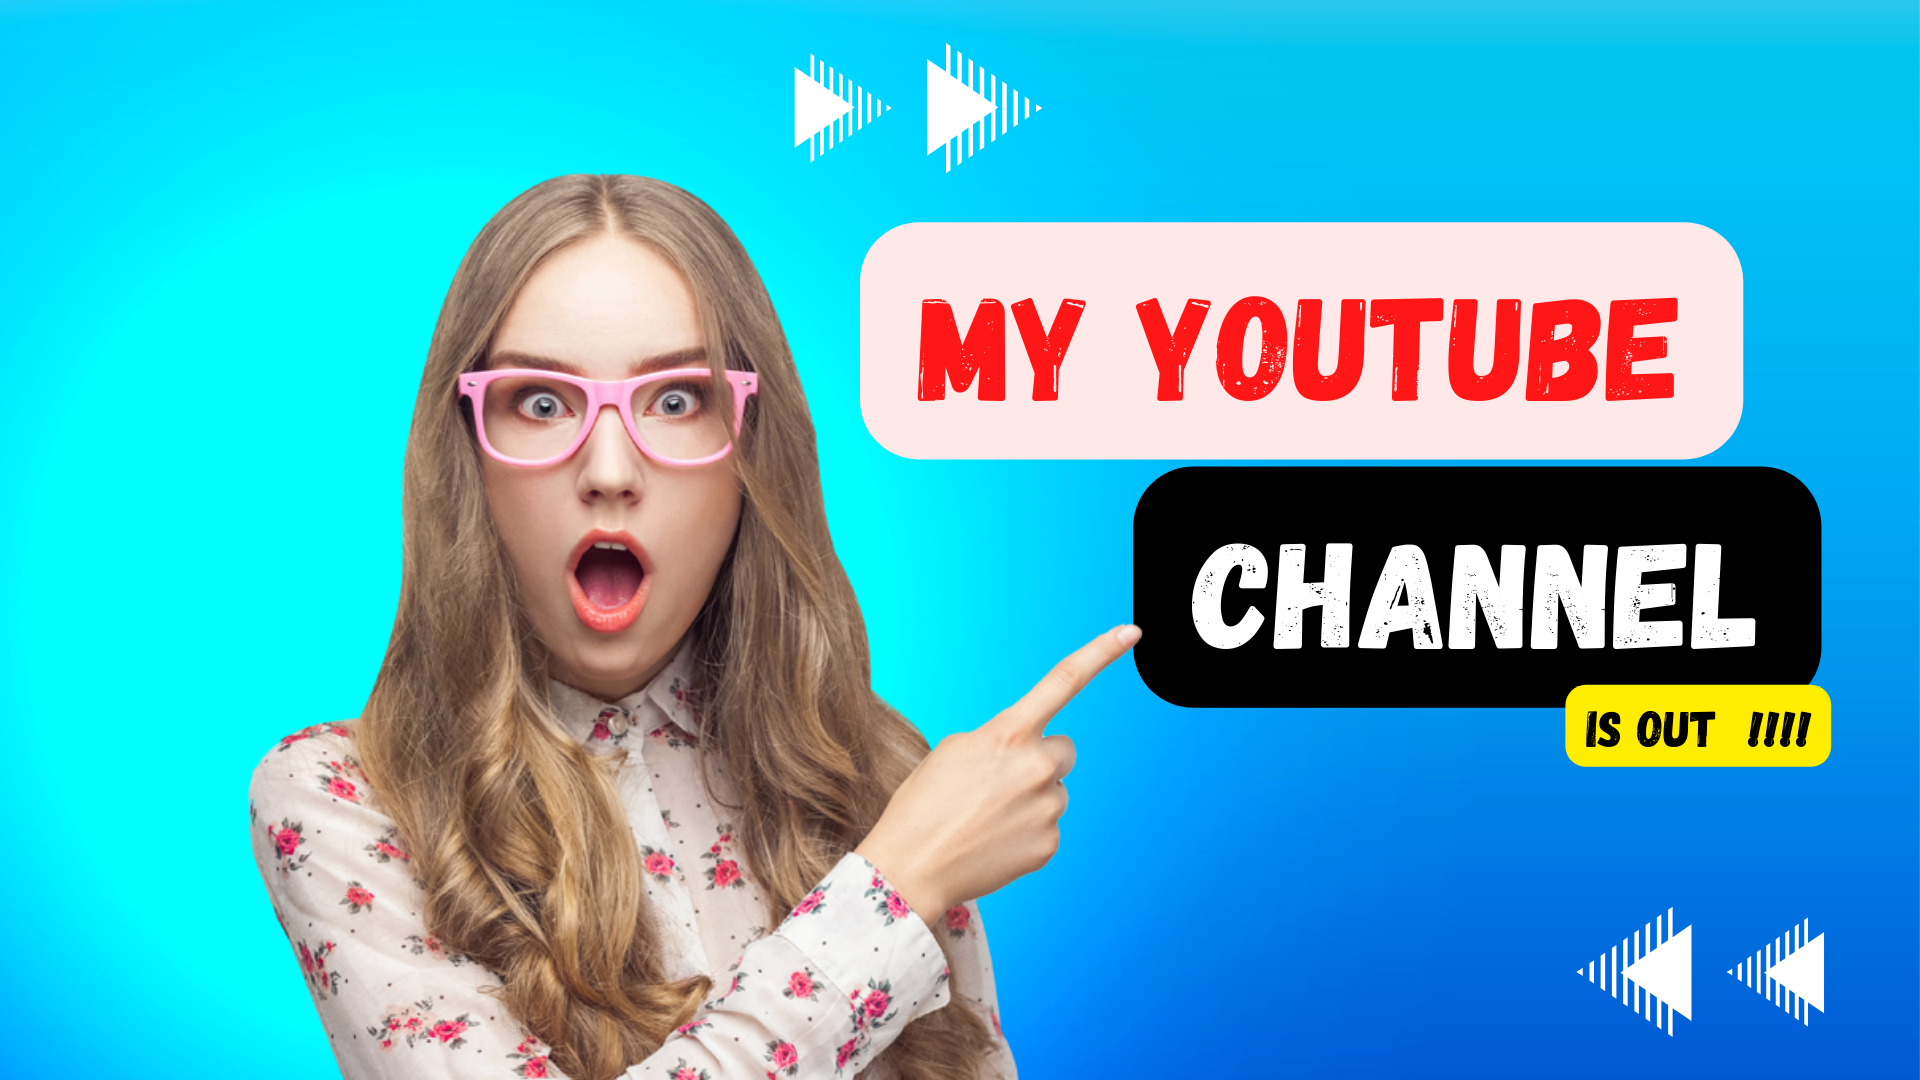
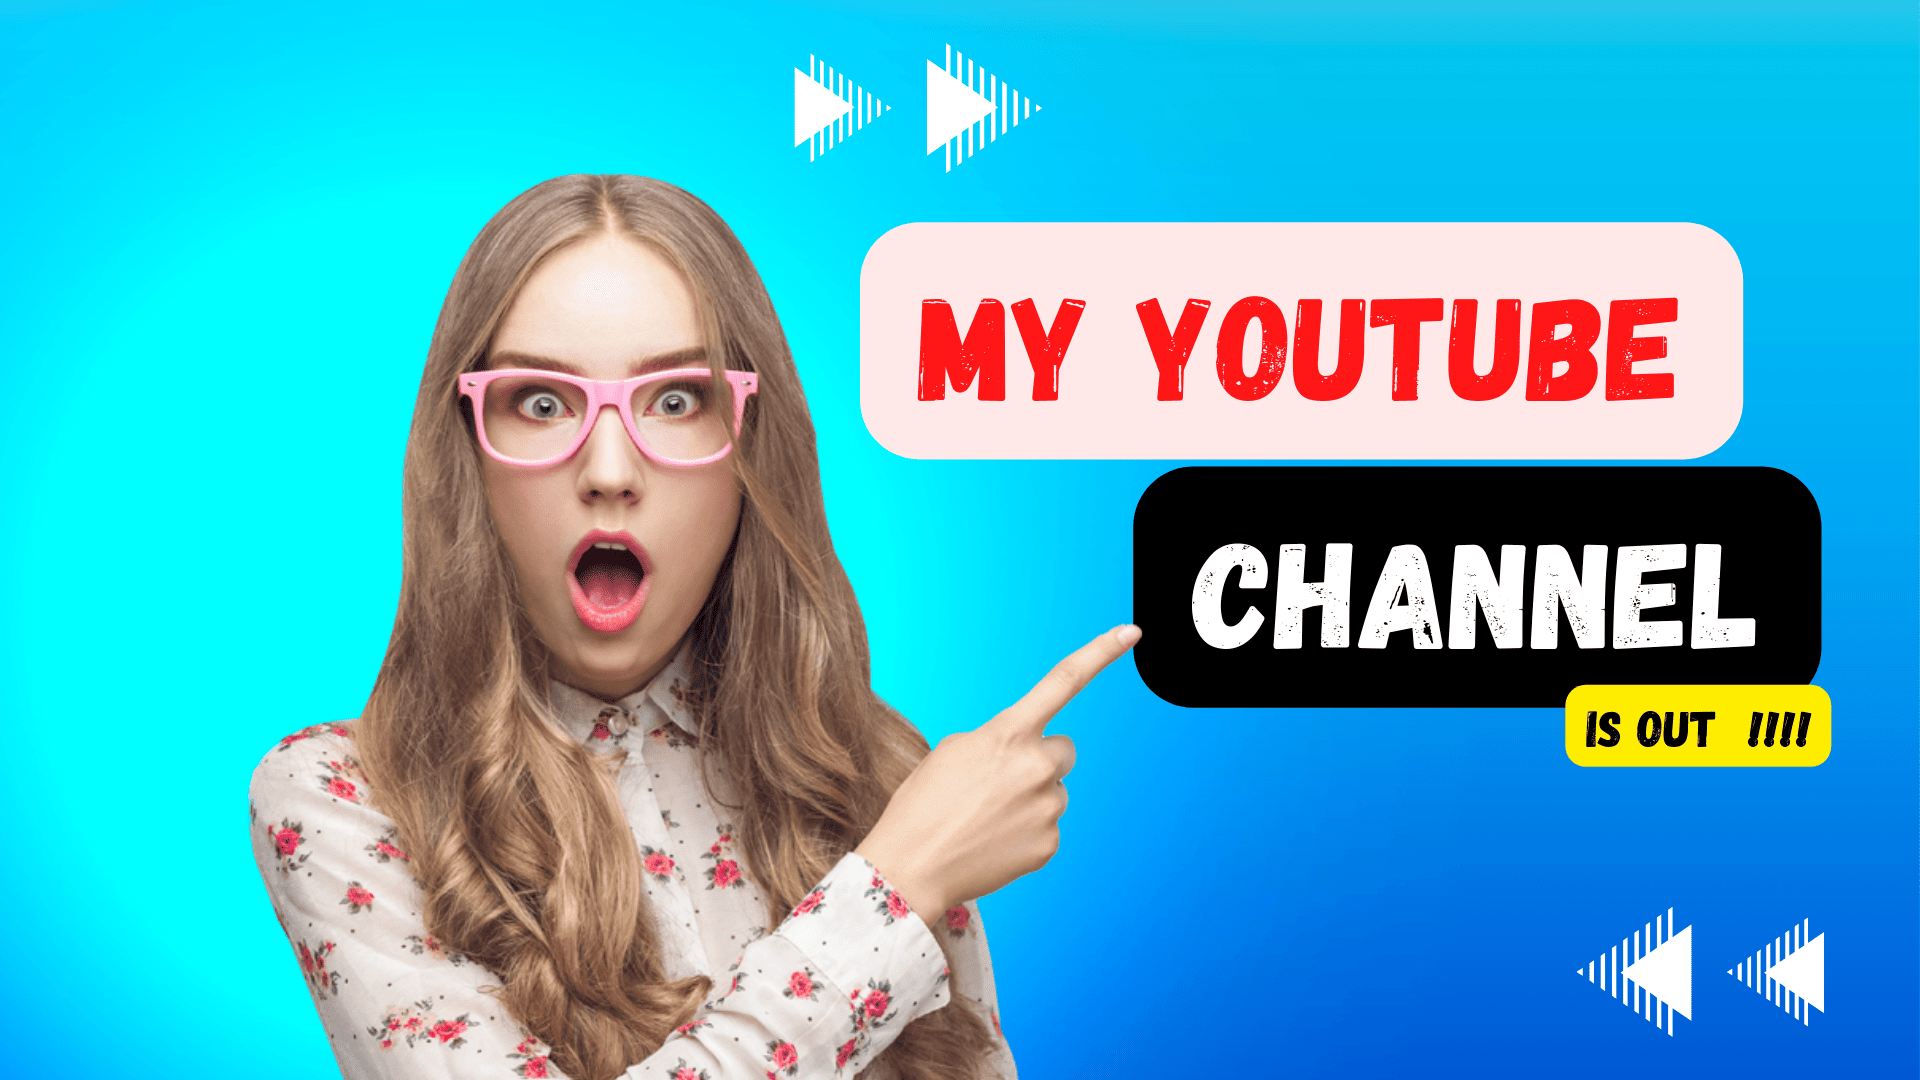
feat: compress large images

Changed region(s): [[0.4375, 0.9167, 0.4688, 0.9472], [0.3125, 0.5194, 0.3438, 0.55]]

diff --git a/content/posts/004-simple-bank-api-in-go/index.md b/content/posts/004-simple-bank-api-in-go/index.md
@@ -64,11 +64,11 @@ So in short the gin server was handling the following request
 ### Endpoints
 
 ```golang
- router := gin.Default()
+router := gin.Default()
 
- authGroup := router.Group("/").Use(authMiddleware(server.tokenMaker))
+authGroup := router.Group("/").Use(authMiddleware(server.tokenMaker))
 
- {
+{
   // Account Routes
   authGroup.POST("/api/accounts", server.createAccount)
   authGroup.GET("/api/accounts/:id", server.getAccount)
@@ -81,14 +81,14 @@ So in short the gin server was handling the following request
   // User Routes
   authGroup.GET("api/users/:username", server.getUser)
   authGroup.PATCH("api/users", server.updateUser)
- }
+}
 
- // Unauthenticated Routes
- router.POST("api/users", server.createUser)
- router.POST("api/users/login", server.loginUser)
- router.POST("api/users/renew", server.renewAccessToken)
+// Unauthenticated Routes
+router.POST("api/users", server.createUser)
+router.POST("api/users/login", server.loginUser)
+router.POST("api/users/renew", server.renewAccessToken)
 
- server.router = router
+server.router = router
 ```
 
 As you can see some requests require authentication, for token creating and verifying I used [paseto](https://paseto.io/),
@@ -104,21 +104,21 @@ It was the first time I was working with `grpc` and `protobuf` and I have to say
 
 In the grpc server I didn't implement all the endpoints, that was implemented in the gin server, but I did implement the following
 
-```golang
-  // Auth gRPC calls
-  rpc Login(LoginRequest) returns (LoginResponse) {}
+```proto
+// Auth gRPC calls
+rpc Login(LoginRequest) returns (LoginResponse) {}
 
-  // service created but not implemented
-  rpc Logout(LogoutRequest) returns (google.protobuf.Empty) {}
-  
-  // User gRPC calls
-  rpc CreateUser(UserRequest) returns (UserResponse) {}
+// service created but not implemented
+rpc Logout(LogoutRequest) returns (google.protobuf.Empty) {}
 
-  rpc GetUser(Username) returns (UserResponse) {}
+// User gRPC calls
+rpc CreateUser(UserRequest) returns (UserResponse) {}
 
-  rpc UpdateUser(UserUpdateRequest) returns (UserResponse) {}
+rpc GetUser(Username) returns (UserResponse) {}
 
-  rpc DeleteUser(Username) returns (google.protobuf.Empty) {}
+rpc UpdateUser(UserUpdateRequest) returns (UserResponse) {}
+
+rpc DeleteUser(Username) returns (google.protobuf.Empty) {}
 ```
 
 For more in depth check the [gapi](https://github.com/escalopa/gobank/tree/main/gapi) dir
